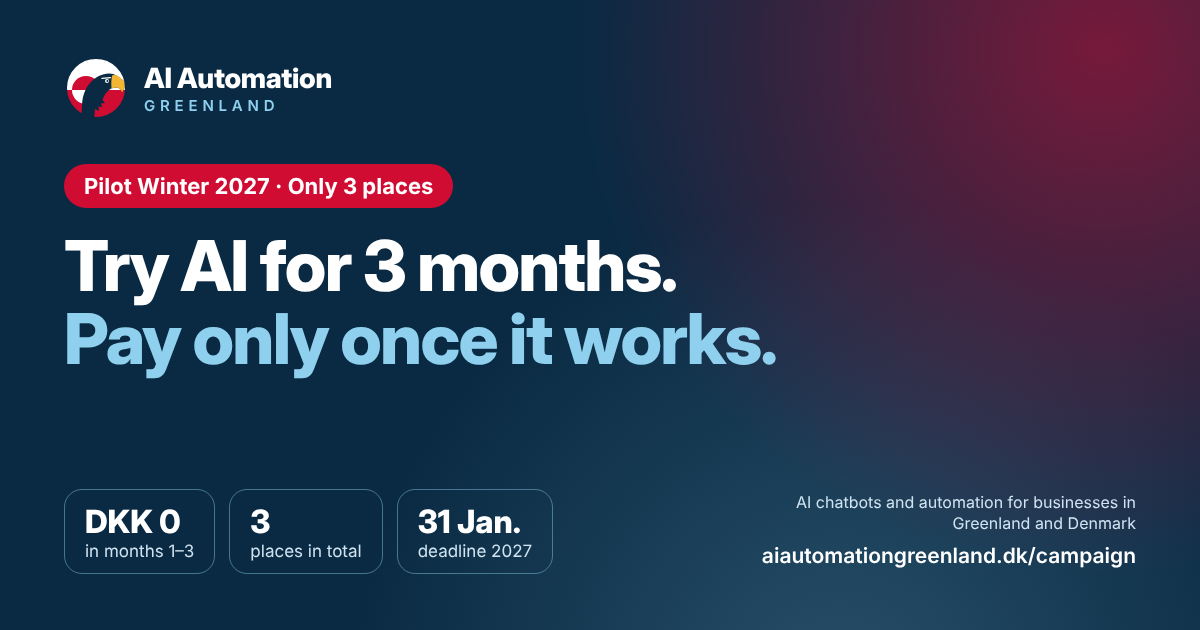
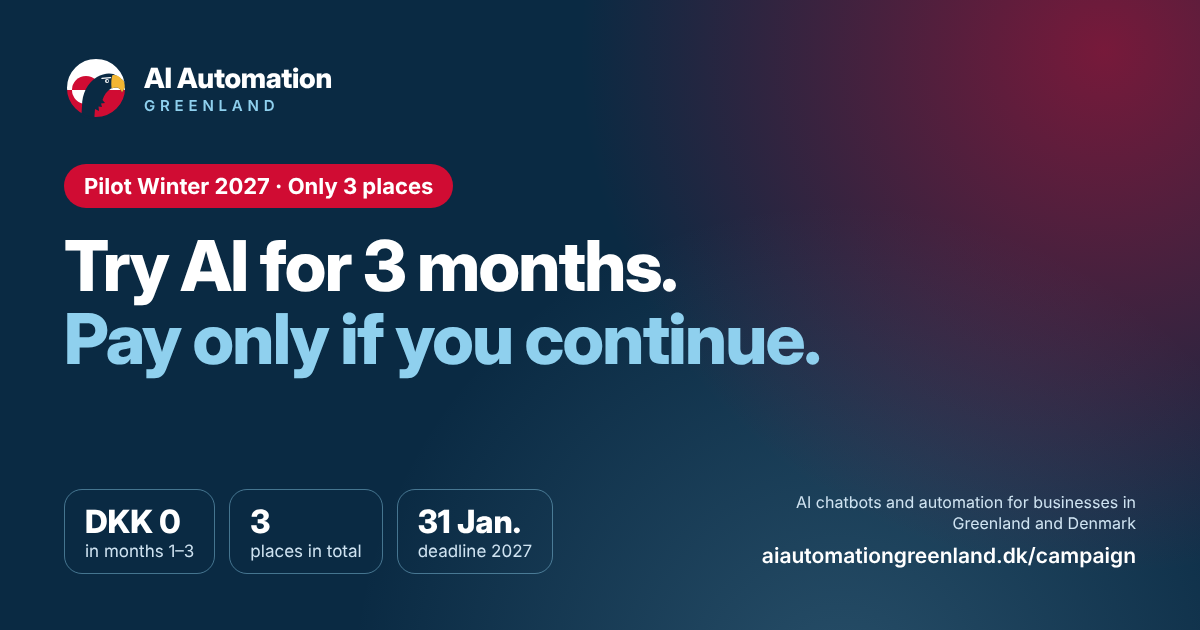
Ny kampagne-overskrift: 'Betal kun, hvis I fortsætter'
Erstatter 'Betal først, når det virker' på DA/EN-sider, bannere og delingsbilleder.

Claude-Session: https://claude.ai/code/session_017cViwHS5XUqh62bXD6a1Wc

Changed region(s): [[0.2775, 0.4825, 0.6783, 0.6032]]

diff --git a/kampagne.html b/kampagne.html
@@ -3,16 +3,16 @@
 <head>
 <meta charset="utf-8">
 <meta name="viewport" content="width=device-width, initial-scale=1">
-<title>Pilotvinter 2027: prøv AI i 3 måneder, betal først når det virker | AI Automation Greenland</title>
+<title>Pilotvinter 2027: prøv AI i 3 måneder, betal kun hvis I fortsætter | AI Automation Greenland</title>
 <meta name="description" content="Få en AI-chatbot eller automatisering sat op uden at betale de første tre måneder. Kun 3 pladser, frist 31. januar 2027. For virksomheder i Grønland og Danmark.">
 <meta name="robots" content="index,follow">
 <meta property="og:type" content="website">
-<meta property="og:title" content="Pilotvinter 2027: prøv AI i 3 måneder, betal først når det virker">
+<meta property="og:title" content="Pilotvinter 2027: prøv AI i 3 måneder, betal kun hvis I fortsætter">
 <meta property="og:description" content="0 kr. de første tre måneder. Kun 3 pladser. Frist 31. januar 2027.">
 <meta property="og:image" content="https://aiautomationgreenland.dk/og-kampagne.png">
 <meta property="og:image:width" content="1200">
 <meta property="og:image:height" content="630">
-<meta property="og:image:alt" content="Pilotvinter 2027: Prøv AI i 3 måneder. Betal først, når det virker.">
+<meta property="og:image:alt" content="Pilotvinter 2027: Prøv AI i 3 måneder. Betal kun, hvis I fortsætter.">
 <meta property="og:site_name" content="AI Automation Greenland">
 <meta name="twitter:card" content="summary_large_image">
 <meta property="og:locale" content="da_DK">
@@ -320,7 +320,7 @@ footer a{color:#fff}
 <section class="band khero">
 <div class="wrap">
 <p class="kbadge">Pilotvinter 2027 · <span class="kledige">3 af 3</span> pladser ledige</p>
-<h1>Prøv AI i tre måneder. Betal først, når det virker.</h1>
+<h1>Prøv AI i tre måneder. Betal kun, hvis I fortsætter.</h1>
 <p class="lead">Vi sætter en AI-chatbot eller en automatisering op i jeres virksomhed. De første tre måneder koster 0 kr. Fortsætter I, fordeles opsætningen over 12 måneder, så I aldrig betaler et stort beløb på én gang.</p>
 <div class="cta" style="margin-top:28px"><a class="btn red" href="#kontakt">Book en plads <span class="arrow">→</span></a><a class="btn line" href="demo.html">Prøv demoen først</a></div>
 <div class="kfacts">

diff --git a/campaign.html b/campaign.html
@@ -3,16 +3,16 @@
 <head>
 <meta charset="utf-8">
 <meta name="viewport" content="width=device-width, initial-scale=1">
-<title>Pilot Winter 2027: try AI for 3 months, pay only once it works | AI Automation Greenland</title>
+<title>Pilot Winter 2027: try AI for 3 months, pay only if you continue | AI Automation Greenland</title>
 <meta name="description" content="Get an AI chatbot or automation set up and pay nothing for the first three months. Only 3 places, deadline 31 January 2027. For businesses in Greenland and Denmark.">
 <meta name="robots" content="index,follow">
 <meta property="og:type" content="website">
-<meta property="og:title" content="Pilot Winter 2027: try AI for 3 months, pay only once it works">
+<meta property="og:title" content="Pilot Winter 2027: try AI for 3 months, pay only if you continue">
 <meta property="og:description" content="DKK 0 for the first three months. Only 3 places. Deadline 31 January 2027.">
 <meta property="og:image" content="https://aiautomationgreenland.dk/og-campaign.png">
 <meta property="og:image:width" content="1200">
 <meta property="og:image:height" content="630">
-<meta property="og:image:alt" content="Pilot Winter 2027: Try AI for 3 months. Pay only once it works.">
+<meta property="og:image:alt" content="Pilot Winter 2027: Try AI for 3 months. Pay only if you continue.">
 <meta property="og:site_name" content="AI Automation Greenland">
 <meta name="twitter:card" content="summary_large_image">
 <meta property="og:locale" content="en_GB">
@@ -320,7 +320,7 @@ footer a{color:#fff}
 <section class="band khero">
 <div class="wrap">
 <p class="kbadge">Pilot Winter 2027 · <span class="kledige">3 of 3</span> places left</p>
-<h1>Try AI for three months. Pay only once it works.</h1>
+<h1>Try AI for three months. Pay only if you continue.</h1>
 <p class="lead">We set up an AI chatbot or an automation in your business. The first three months cost DKK 0. If you continue, the setup is spread over 12 months, so you never pay a large amount at once.</p>
 <div class="cta" style="margin-top:28px"><a class="btn red" href="#kontakt">Book a place <span class="arrow">→</span></a><a class="btn line" href="demo.html">Try the demo first</a></div>
 <div class="kfacts">

diff --git a/index.html b/index.html
@@ -248,7 +248,7 @@ footer a{color:#fff}
 </defs>
 </svg>
 
-<a class="kbar" href="kampagne.html">Pilotvinter 2027: prøv AI i 3 måneder, betal først når det virker. Kun 3 pladser.<span>Læs mere</span></a>
+<a class="kbar" href="kampagne.html">Pilotvinter 2027: prøv AI i 3 måneder, betal kun hvis I fortsætter. Kun 3 pladser.<span>Læs mere</span></a>
 <header>
 <nav aria-label="Hovedmenu">
 <a class="logo" href="#top"><svg aria-hidden="true"><use href="#mark"/></svg><span class="wm"><b>AI Automation</b><i>GREENLAND</i></span></a>

diff --git a/en.html b/en.html
@@ -248,7 +248,7 @@ footer a{color:#fff}
 </defs>
 </svg>
 
-<a class="kbar" href="campaign.html">Pilot Winter 2027: try AI for 3 months, pay only once it works. Only 3 places.<span>Read more</span></a>
+<a class="kbar" href="campaign.html">Pilot Winter 2027: try AI for 3 months, pay only if you continue. Only 3 places.<span>Read more</span></a>
 <header>
 <nav aria-label="Main menu">
 <a class="logo" href="#top"><svg aria-hidden="true"><use href="#mark"/></svg><span class="wm"><b>AI Automation</b><i>GREENLAND</i></span></a>
